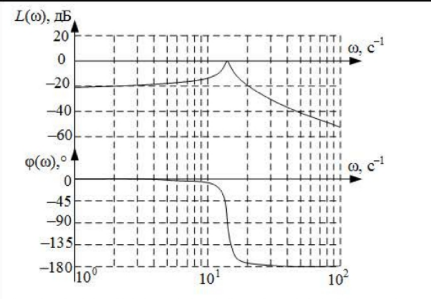
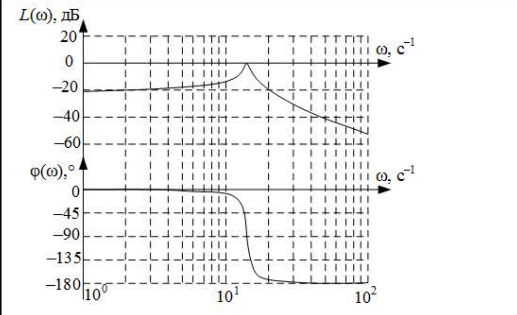
Updates

Changed region(s): [[0.0, 0.0, 1.0, 1.0], [0.8747, 0.5117, 0.9049, 0.5418]]

diff --git a/index.html b/index.html
@@ -4,8 +4,8 @@
     <meta charset="UTF-8" />
     <meta name="viewport" content="width=device-width, initial-scale=1.0" />
     <title>Тестирование знаний</title>
-    <script type="module" crossorigin src="/my-test-app/assets/index-BOHzGrlx.js"></script>
-    <link rel="stylesheet" crossorigin href="/my-test-app/assets/index-B39EIixZ.css">
+    <script type="module" crossorigin src="/my-test-app/assets/index-COvzmsuA.js"></script>
+    <link rel="stylesheet" crossorigin href="/my-test-app/assets/index-Du-eZXOD.css">
   </head>
   <body>
     <div id="root"></div>

diff --git a/assets/index-Du-eZXOD.css b/assets/index-Du-eZXOD.css
@@ -1,0 +1,1 @@
+*,:before,:after{--tw-border-spacing-x: 0;--tw-border-spacing-y: 0;--tw-translate-x: 0;--tw-translate-y: 0;--tw-rotate: 0;--tw-skew-x: 0;--tw-skew-y: 0;--tw-scale-x: 1;--tw-scale-y: 1;--tw-pan-x: ;--tw-pan-y: ;--tw-pinch-zoom: ;--tw-scroll-snap-strictness: proximity;--tw-gradient-from-position: ;--tw-gradient-via-position: ;--tw-gradient-to-position: ;--tw-ordinal: ;--tw-slashed-zero: ;--tw-numeric-figure: ;--tw-numeric-spacing: ;--tw-numeric-fraction: ;--tw-ring-inset: ;--tw-ring-offset-width: 0px;--tw-ring-offset-color: #fff;--tw-ring-color: rgb(59 130 246 / .5);--tw-ring-offset-shadow: 0 0 #0000;--tw-ring-shadow: 0 0 #0000;--tw-shadow: 0 0 #0000;--tw-shadow-colored: 0 0 #0000;--tw-blur: ;--tw-brightness: ;--tw-contrast: ;--tw-grayscale: ;--tw-hue-rotate: ;--tw-invert: ;--tw-saturate: ;--tw-sepia: ;--tw-drop-shadow: ;--tw-backdrop-blur: ;--tw-backdrop-brightness: ;--tw-backdrop-contrast: ;--tw-backdrop-grayscale: ;--tw-backdrop-hue-rotate: ;--tw-backdrop-invert: ;--tw-backdrop-opacity: ;--tw-backdrop-saturate: ;--tw-backdrop-sepia: ;--tw-contain-size: ;--tw-contain-layout: ;--tw-contain-paint: ;--tw-contain-style: }::backdrop{--tw-border-spacing-x: 0;--tw-border-spacing-y: 0;--tw-translate-x: 0;--tw-translate-y: 0;--tw-rotate: 0;--tw-skew-x: 0;--tw-skew-y: 0;--tw-scale-x: 1;--tw-scale-y: 1;--tw-pan-x: ;--tw-pan-y: ;--tw-pinch-zoom: ;--tw-scroll-snap-strictness: proximity;--tw-gradient-from-position: ;--tw-gradient-via-position: ;--tw-gradient-to-position: ;--tw-ordinal: ;--tw-slashed-zero: ;--tw-numeric-figure: ;--tw-numeric-spacing: ;--tw-numeric-fraction: ;--tw-ring-inset: ;--tw-ring-offset-width: 0px;--tw-ring-offset-color: #fff;--tw-ring-color: rgb(59 130 246 / .5);--tw-ring-offset-shadow: 0 0 #0000;--tw-ring-shadow: 0 0 #0000;--tw-shadow: 0 0 #0000;--tw-shadow-colored: 0 0 #0000;--tw-blur: ;--tw-brightness: ;--tw-contrast: ;--tw-grayscale: ;--tw-hue-rotate: ;--tw-invert: ;--tw-saturate: ;--tw-sepia: ;--tw-drop-shadow: ;--tw-backdrop-blur: ;--tw-backdrop-brightness: ;--tw-backdrop-contrast: ;--tw-backdrop-grayscale: ;--tw-backdrop-hue-rotate: ;--tw-backdrop-invert: ;--tw-backdrop-opacity: ;--tw-backdrop-saturate: ;--tw-backdrop-sepia: ;--tw-contain-size: ;--tw-contain-layout: ;--tw-contain-paint: ;--tw-contain-style: }*,:before,:after{box-sizing:border-box;border-width:0;border-style:solid;border-color:#e5e7eb}:before,:after{--tw-content: ""}html,:host{line-height:1.5;-webkit-text-size-adjust:100%;-moz-tab-size:4;-o-tab-size:4;tab-size:4;font-family:ui-sans-serif,system-ui,sans-serif,"Apple Color Emoji","Segoe UI Emoji",Segoe UI Symbol,"Noto Color Emoji";font-feature-settings:normal;font-variation-settings:normal;-webkit-tap-highlight-color:transparent}body{margin:0;line-height:inherit}hr{height:0;color:inherit;border-top-width:1px}abbr:where([title]){-webkit-text-decoration:underline dotted;text-decoration:underline dotted}h1,h2,h3,h4,h5,h6{font-size:inherit;font-weight:inherit}a{color:inherit;text-decoration:inherit}b,strong{font-weight:bolder}code,kbd,samp,pre{font-family:ui-monospace,SFMono-Regular,Menlo,Monaco,Consolas,Liberation Mono,Courier New,monospace;font-feature-settings:normal;font-variation-settings:normal;font-size:1em}small{font-size:80%}sub,sup{font-size:75%;line-height:0;position:relative;vertical-align:baseline}sub{bottom:-.25em}sup{top:-.5em}table{text-indent:0;border-color:inherit;border-collapse:collapse}button,input,optgroup,select,textarea{font-family:inherit;font-feature-settings:inherit;font-variation-settings:inherit;font-size:100%;font-weight:inherit;line-height:inherit;letter-spacing:inherit;color:inherit;margin:0;padding:0}button,select{text-transform:none}button,input:where([type=button]),input:where([type=reset]),input:where([type=submit]){-webkit-appearance:button;background-color:transparent;background-image:none}:-moz-focusring{outline:auto}:-moz-ui-invalid{box-shadow:none}progress{vertical-align:baseline}::-webkit-inner-spin-button,::-webkit-outer-spin-button{height:auto}[type=search]{-webkit-appearance:textfield;outline-offset:-2px}::-webkit-search-decoration{-webkit-appearance:none}::-webkit-file-upload-button{-webkit-appearance:button;font:inherit}summary{display:list-item}blockquote,dl,dd,h1,h2,h3,h4,h5,h6,hr,figure,p,pre{margin:0}fieldset{margin:0;padding:0}legend{padding:0}ol,ul,menu{list-style:none;margin:0;padding:0}dialog{padding:0}textarea{resize:vertical}input::-moz-placeholder,textarea::-moz-placeholder{opacity:1;color:#9ca3af}input::placeholder,textarea::placeholder{opacity:1;color:#9ca3af}button,[role=button]{cursor:pointer}:disabled{cursor:default}img,svg,video,canvas,audio,iframe,embed,object{display:block;vertical-align:middle}img,video{max-width:100%;height:auto}[hidden]:where(:not([hidden=until-found])){display:none}.relative{position:relative}.z-10{z-index:10}.mx-auto{margin-left:auto;margin-right:auto}.mb-2{margin-bottom:.5rem}.mb-3{margin-bottom:.75rem}.mb-4{margin-bottom:1rem}.mb-6{margin-bottom:1.5rem}.mb-8{margin-bottom:2rem}.ml-10{margin-left:2.5rem}.mt-1{margin-top:.25rem}.mt-3{margin-top:.75rem}.mt-4{margin-top:1rem}.mt-6{margin-top:1.5rem}.flex{display:flex}.grid{display:grid}.h-12{height:3rem}.h-24{height:6rem}.h-3{height:.75rem}.h-4{height:1rem}.h-5{height:1.25rem}.h-6{height:1.5rem}.h-7{height:1.75rem}.h-8{height:2rem}.h-auto{height:auto}.h-full{height:100%}.max-h-32{max-height:8rem}.max-h-72{max-height:18rem}.min-h-screen{min-height:100vh}.w-12{width:3rem}.w-24{width:6rem}.w-4{width:1rem}.w-5{width:1.25rem}.w-6{width:1.5rem}.w-7{width:1.75rem}.w-8{width:2rem}.w-full{width:100%}.max-w-3xl{max-width:48rem}.max-w-full{max-width:100%}.max-w-lg{max-width:32rem}.max-w-md{max-width:28rem}.flex-shrink-0{flex-shrink:0}.flex-grow{flex-grow:1}.rotate-180{--tw-rotate: 180deg;transform:translate(var(--tw-translate-x),var(--tw-translate-y)) rotate(var(--tw-rotate)) skew(var(--tw-skew-x)) skewY(var(--tw-skew-y)) scaleX(var(--tw-scale-x)) scaleY(var(--tw-scale-y))}.rotate-3{--tw-rotate: 3deg;transform:translate(var(--tw-translate-x),var(--tw-translate-y)) rotate(var(--tw-rotate)) skew(var(--tw-skew-x)) skewY(var(--tw-skew-y)) scaleX(var(--tw-scale-x)) scaleY(var(--tw-scale-y))}.scale-110{--tw-scale-x: 1.1;--tw-scale-y: 1.1;transform:translate(var(--tw-translate-x),var(--tw-translate-y)) rotate(var(--tw-rotate)) skew(var(--tw-skew-x)) skewY(var(--tw-skew-y)) scaleX(var(--tw-scale-x)) scaleY(var(--tw-scale-y))}.transform{transform:translate(var(--tw-translate-x),var(--tw-translate-y)) rotate(var(--tw-rotate)) skew(var(--tw-skew-x)) skewY(var(--tw-skew-y)) scaleX(var(--tw-scale-x)) scaleY(var(--tw-scale-y))}@keyframes pulse{50%{opacity:.5}}.animate-pulse{animation:pulse 2s cubic-bezier(.4,0,.6,1) infinite}.cursor-not-allowed{cursor:not-allowed}.resize{resize:both}.grid-cols-2{grid-template-columns:repeat(2,minmax(0,1fr))}.flex-col{flex-direction:column}.flex-wrap{flex-wrap:wrap}.items-start{align-items:flex-start}.items-center{align-items:center}.justify-center{justify-content:center}.justify-between{justify-content:space-between}.gap-1\.5{gap:.375rem}.gap-2{gap:.5rem}.gap-3{gap:.75rem}.gap-4{gap:1rem}.space-y-1>:not([hidden])~:not([hidden]){--tw-space-y-reverse: 0;margin-top:calc(.25rem * calc(1 - var(--tw-space-y-reverse)));margin-bottom:calc(.25rem * var(--tw-space-y-reverse))}.space-y-2>:not([hidden])~:not([hidden]){--tw-space-y-reverse: 0;margin-top:calc(.5rem * calc(1 - var(--tw-space-y-reverse)));margin-bottom:calc(.5rem * var(--tw-space-y-reverse))}.space-y-3>:not([hidden])~:not([hidden]){--tw-space-y-reverse: 0;margin-top:calc(.75rem * calc(1 - var(--tw-space-y-reverse)));margin-bottom:calc(.75rem * var(--tw-space-y-reverse))}.space-y-4>:not([hidden])~:not([hidden]){--tw-space-y-reverse: 0;margin-top:calc(1rem * calc(1 - var(--tw-space-y-reverse)));margin-bottom:calc(1rem * var(--tw-space-y-reverse))}.overflow-hidden{overflow:hidden}.rounded-2xl{border-radius:1rem}.rounded-3xl{border-radius:1.5rem}.rounded-full{border-radius:9999px}.rounded-lg{border-radius:.5rem}.rounded-xl{border-radius:.75rem}.border{border-width:1px}.border-2{border-width:2px}.border-gray-100{--tw-border-opacity: 1;border-color:rgb(243 244 246 / var(--tw-border-opacity, 1))}.border-gray-200{--tw-border-opacity: 1;border-color:rgb(229 231 235 / var(--tw-border-opacity, 1))}.border-gray-300{--tw-border-opacity: 1;border-color:rgb(209 213 219 / var(--tw-border-opacity, 1))}.border-green-200{--tw-border-opacity: 1;border-color:rgb(187 247 208 / var(--tw-border-opacity, 1))}.border-green-500{--tw-border-opacity: 1;border-color:rgb(34 197 94 / var(--tw-border-opacity, 1))}.border-indigo-500{--tw-border-opacity: 1;border-color:rgb(99 102 241 / var(--tw-border-opacity, 1))}.border-purple-500{--tw-border-opacity: 1;border-color:rgb(168 85 247 / var(--tw-border-opacity, 1))}.border-red-200{--tw-border-opacity: 1;border-color:rgb(254 202 202 / var(--tw-border-opacity, 1))}.bg-gray-100{--tw-bg-opacity: 1;background-color:rgb(243 244 246 / var(--tw-bg-opacity, 1))}.bg-gray-200{--tw-bg-opacity: 1;background-color:rgb(229 231 235 / var(--tw-bg-opacity, 1))}.bg-gray-400{--tw-bg-opacity: 1;background-color:rgb(156 163 175 / var(--tw-bg-opacity, 1))}.bg-gray-50{--tw-bg-opacity: 1;background-color:rgb(249 250 251 / var(--tw-bg-opacity, 1))}.bg-green-50{--tw-bg-opacity: 1;background-color:rgb(240 253 244 / var(--tw-bg-opacity, 1))}.bg-green-500{--tw-bg-opacity: 1;background-color:rgb(34 197 94 / var(--tw-bg-opacity, 1))}.bg-indigo-100{--tw-bg-opacity: 1;background-color:rgb(224 231 255 / var(--tw-bg-opacity, 1))}.bg-indigo-50{--tw-bg-opacity: 1;background-color:rgb(238 242 255 / var(--tw-bg-opacity, 1))}.bg-indigo-500{--tw-bg-opacity: 1;background-color:rgb(99 102 241 / var(--tw-bg-opacity, 1))}.bg-purple-50{--tw-bg-opacity: 1;background-color:rgb(250 245 255 / var(--tw-bg-opacity, 1))}.bg-red-50{--tw-bg-opacity: 1;background-color:rgb(254 242 242 / var(--tw-bg-opacity, 1))}.bg-red-500{--tw-bg-opacity: 1;background-color:rgb(239 68 68 / var(--tw-bg-opacity, 1))}.bg-white{--tw-bg-opacity: 1;background-color:rgb(255 255 255 / var(--tw-bg-opacity, 1))}.bg-gradient-to-br{background-image:linear-gradient(to bottom right,var(--tw-gradient-stops))}.bg-gradient-to-r{background-image:linear-gradient(to right,var(--tw-gradient-stops))}.from-blue-400{--tw-gradient-from: #60a5fa var(--tw-gradient-from-position);--tw-gradient-to: rgb(96 165 250 / 0) var(--tw-gradient-to-position);--tw-gradient-stops: var(--tw-gradient-from), var(--tw-gradient-to)}.from-green-400{--tw-gradient-from: #4ade80 var(--tw-gradient-from-position);--tw-gradient-to: rgb(74 222 128 / 0) var(--tw-gradient-to-position);--tw-gradient-stops: var(--tw-gradient-from), var(--tw-gradient-to)}.from-green-500{--tw-gradient-from: #22c55e var(--tw-gradient-from-position);--tw-gradient-to: rgb(34 197 94 / 0) var(--tw-gradient-to-position);--tw-gradient-stops: var(--tw-gradient-from), var(--tw-gradient-to)}.from-indigo-50{--tw-gradient-from: #eef2ff var(--tw-gradient-from-position);--tw-gradient-to: rgb(238 242 255 / 0) var(--tw-gradient-to-position);--tw-gradient-stops: var(--tw-gradient-from), var(--tw-gradient-to)}.from-indigo-500{--tw-gradient-from: #6366f1 var(--tw-gradient-from-position);--tw-gradient-to: rgb(99 102 241 / 0) var(--tw-gradient-to-position);--tw-gradient-stops: var(--tw-gradient-from), var(--tw-gradient-to)}.from-orange-400{--tw-gradient-from: #fb923c var(--tw-gradient-from-position);--tw-gradient-to: rgb(251 146 60 / 0) var(--tw-gradient-to-position);--tw-gradient-stops: var(--tw-gradient-from), var(--tw-gradient-to)}.from-purple-500{--tw-gradient-from: #a855f7 var(--tw-gradient-from-position);--tw-gradient-to: rgb(168 85 247 / 0) var(--tw-gradient-to-position);--tw-gradient-stops: var(--tw-gradient-from), var(--tw-gradient-to)}.from-red-500{--tw-gradient-from: #ef4444 var(--tw-gradient-from-position);--tw-gradient-to: rgb(239 68 68 / 0) var(--tw-gradient-to-position);--tw-gradient-stops: var(--tw-gradient-from), var(--tw-gradient-to)}.from-yellow-400{--tw-gradient-from: #facc15 var(--tw-gradient-from-position);--tw-gradient-to: rgb(250 204 21 / 0) var(--tw-gradient-to-position);--tw-gradient-stops: var(--tw-gradient-from), var(--tw-gradient-to)}.via-white{--tw-gradient-to: rgb(255 255 255 / 0) var(--tw-gradient-to-position);--tw-gradient-stops: var(--tw-gradient-from), #fff var(--tw-gradient-via-position), var(--tw-gradient-to)}.to-amber-500{--tw-gradient-to: #f59e0b var(--tw-gradient-to-position)}.to-blue-500{--tw-gradient-to: #3b82f6 var(--tw-gradient-to-position)}.to-emerald-500{--tw-gradient-to: #10b981 var(--tw-gradient-to-position)}.to-indigo-500{--tw-gradient-to: #6366f1 var(--tw-gradient-to-position)}.to-pink-500{--tw-gradient-to: #ec4899 var(--tw-gradient-to-position)}.to-pink-600{--tw-gradient-to: #db2777 var(--tw-gradient-to-position)}.to-purple-50{--tw-gradient-to: #faf5ff var(--tw-gradient-to-position)}.to-purple-500{--tw-gradient-to: #a855f7 var(--tw-gradient-to-position)}.to-purple-600{--tw-gradient-to: #9333ea var(--tw-gradient-to-position)}.to-red-400{--tw-gradient-to: #f87171 var(--tw-gradient-to-position)}.object-contain{-o-object-fit:contain;object-fit:contain}.p-3{padding:.75rem}.p-4{padding:1rem}.p-5{padding:1.25rem}.p-6{padding:1.5rem}.p-8{padding:2rem}.px-2\.5{padding-left:.625rem;padding-right:.625rem}.px-4{padding-left:1rem;padding-right:1rem}.px-6{padding-left:1.5rem;padding-right:1.5rem}.px-8{padding-left:2rem;padding-right:2rem}.py-0\.5{padding-top:.125rem;padding-bottom:.125rem}.py-2{padding-top:.5rem;padding-bottom:.5rem}.py-2\.5{padding-top:.625rem;padding-bottom:.625rem}.py-4{padding-top:1rem;padding-bottom:1rem}.py-6{padding-top:1.5rem;padding-bottom:1.5rem}.py-8{padding-top:2rem;padding-bottom:2rem}.text-left{text-align:left}.text-center{text-align:center}.font-mono{font-family:ui-monospace,SFMono-Regular,Menlo,Monaco,Consolas,Liberation Mono,Courier New,monospace}.text-3xl{font-size:1.875rem;line-height:2.25rem}.text-6xl{font-size:3.75rem;line-height:1}.text-base{font-size:1rem;line-height:1.5rem}.text-lg{font-size:1.125rem;line-height:1.75rem}.text-sm{font-size:.875rem;line-height:1.25rem}.text-xl{font-size:1.25rem;line-height:1.75rem}.text-xs{font-size:.75rem;line-height:1rem}.font-bold{font-weight:700}.font-medium{font-weight:500}.font-semibold{font-weight:600}.leading-relaxed{line-height:1.625}.text-gray-300{--tw-text-opacity: 1;color:rgb(209 213 219 / var(--tw-text-opacity, 1))}.text-gray-400{--tw-text-opacity: 1;color:rgb(156 163 175 / var(--tw-text-opacity, 1))}.text-gray-500{--tw-text-opacity: 1;color:rgb(107 114 128 / var(--tw-text-opacity, 1))}.text-gray-600{--tw-text-opacity: 1;color:rgb(75 85 99 / var(--tw-text-opacity, 1))}.text-gray-700{--tw-text-opacity: 1;color:rgb(55 65 81 / var(--tw-text-opacity, 1))}.text-gray-800{--tw-text-opacity: 1;color:rgb(31 41 55 / var(--tw-text-opacity, 1))}.text-green-700{--tw-text-opacity: 1;color:rgb(21 128 61 / var(--tw-text-opacity, 1))}.text-indigo-600{--tw-text-opacity: 1;color:rgb(79 70 229 / var(--tw-text-opacity, 1))}.text-indigo-700{--tw-text-opacity: 1;color:rgb(67 56 202 / var(--tw-text-opacity, 1))}.text-indigo-800{--tw-text-opacity: 1;color:rgb(55 48 163 / var(--tw-text-opacity, 1))}.text-red-600{--tw-text-opacity: 1;color:rgb(220 38 38 / var(--tw-text-opacity, 1))}.text-red-700{--tw-text-opacity: 1;color:rgb(185 28 28 / var(--tw-text-opacity, 1))}.text-white{--tw-text-opacity: 1;color:rgb(255 255 255 / var(--tw-text-opacity, 1))}.opacity-85{opacity:.85}.opacity-90{opacity:.9}.shadow-2xl{--tw-shadow: 0 25px 50px -12px rgb(0 0 0 / .25);--tw-shadow-colored: 0 25px 50px -12px var(--tw-shadow-color);box-shadow:var(--tw-ring-offset-shadow, 0 0 #0000),var(--tw-ring-shadow, 0 0 #0000),var(--tw-shadow)}.shadow-lg{--tw-shadow: 0 10px 15px -3px rgb(0 0 0 / .1), 0 4px 6px -4px rgb(0 0 0 / .1);--tw-shadow-colored: 0 10px 15px -3px var(--tw-shadow-color), 0 4px 6px -4px var(--tw-shadow-color);box-shadow:var(--tw-ring-offset-shadow, 0 0 #0000),var(--tw-ring-shadow, 0 0 #0000),var(--tw-shadow)}.shadow-md{--tw-shadow: 0 4px 6px -1px rgb(0 0 0 / .1), 0 2px 4px -2px rgb(0 0 0 / .1);--tw-shadow-colored: 0 4px 6px -1px var(--tw-shadow-color), 0 2px 4px -2px var(--tw-shadow-color);box-shadow:var(--tw-ring-offset-shadow, 0 0 #0000),var(--tw-ring-shadow, 0 0 #0000),var(--tw-shadow)}.filter{filter:var(--tw-blur) var(--tw-brightness) var(--tw-contrast) var(--tw-grayscale) var(--tw-hue-rotate) var(--tw-invert) var(--tw-saturate) var(--tw-sepia) var(--tw-drop-shadow)}.transition-all{transition-property:all;transition-timing-function:cubic-bezier(.4,0,.2,1);transition-duration:.15s}.transition-shadow{transition-property:box-shadow;transition-timing-function:cubic-bezier(.4,0,.2,1);transition-duration:.15s}.transition-transform{transition-property:transform;transition-timing-function:cubic-bezier(.4,0,.2,1);transition-duration:.15s}.duration-200{transition-duration:.2s}.duration-500{transition-duration:.5s}body{font-family:Inter,system-ui,-apple-system,sans-serif;background:#f8fafc}.hover\:-translate-y-0\.5:hover{--tw-translate-y: -.125rem;transform:translate(var(--tw-translate-x),var(--tw-translate-y)) rotate(var(--tw-rotate)) skew(var(--tw-skew-x)) skewY(var(--tw-skew-y)) scaleX(var(--tw-scale-x)) scaleY(var(--tw-scale-y))}.hover\:border-indigo-300:hover{--tw-border-opacity: 1;border-color:rgb(165 180 252 / var(--tw-border-opacity, 1))}.hover\:border-purple-300:hover{--tw-border-opacity: 1;border-color:rgb(216 180 254 / var(--tw-border-opacity, 1))}.hover\:bg-gray-50:hover{--tw-bg-opacity: 1;background-color:rgb(249 250 251 / var(--tw-bg-opacity, 1))}.hover\:bg-white:hover{--tw-bg-opacity: 1;background-color:rgb(255 255 255 / var(--tw-bg-opacity, 1))}.hover\:shadow:hover{--tw-shadow: 0 1px 3px 0 rgb(0 0 0 / .1), 0 1px 2px -1px rgb(0 0 0 / .1);--tw-shadow-colored: 0 1px 3px 0 var(--tw-shadow-color), 0 1px 2px -1px var(--tw-shadow-color);box-shadow:var(--tw-ring-offset-shadow, 0 0 #0000),var(--tw-ring-shadow, 0 0 #0000),var(--tw-shadow)}.hover\:shadow-xl:hover{--tw-shadow: 0 20px 25px -5px rgb(0 0 0 / .1), 0 8px 10px -6px rgb(0 0 0 / .1);--tw-shadow-colored: 0 20px 25px -5px var(--tw-shadow-color), 0 8px 10px -6px var(--tw-shadow-color);box-shadow:var(--tw-ring-offset-shadow, 0 0 #0000),var(--tw-ring-shadow, 0 0 #0000),var(--tw-shadow)}.group:hover .group-hover\:border-indigo-400{--tw-border-opacity: 1;border-color:rgb(129 140 248 / var(--tw-border-opacity, 1))}@media (min-width: 768px){.md\:p-10{padding:2.5rem}.md\:p-12{padding:3rem}.md\:p-8{padding:2rem}.md\:text-2xl{font-size:1.5rem;line-height:2rem}.md\:text-4xl{font-size:2.25rem;line-height:2.5rem}.md\:text-7xl{font-size:4.5rem;line-height:1}.md\:text-base{font-size:1rem;line-height:1.5rem}.md\:text-xl{font-size:1.25rem;line-height:1.75rem}}